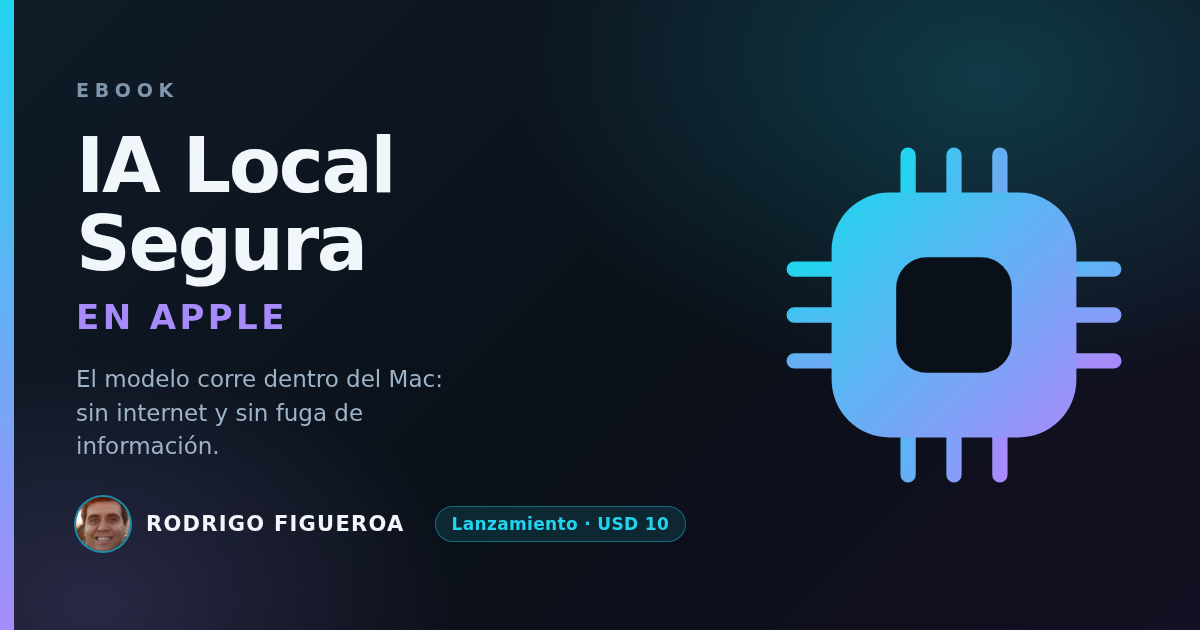
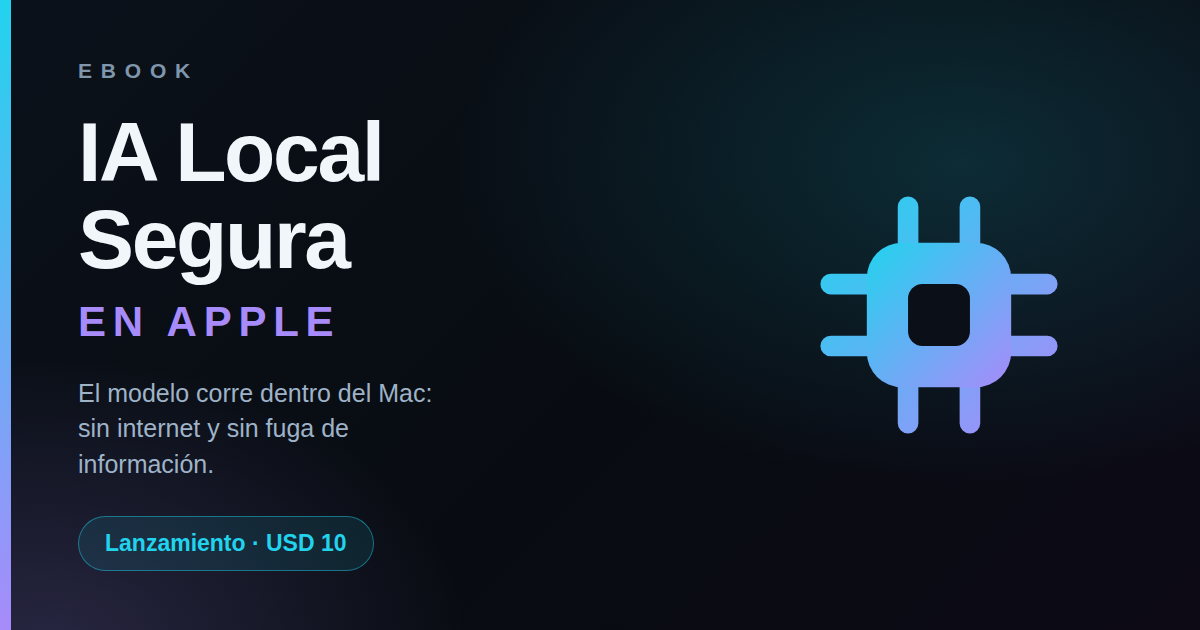
Anonimizar la landing: sin autor firmado y sin el cliente del caso
La página estaba firmada por una persona con nombre, apellido, dos retratos y
un número de WhatsApp personal, y el caso de éxito citaba a un cliente por su
razón social. Se quitan ambas identidades.

La marca pasa a ser el título del ebook. En la barra y el pie, la foto de perfil
se reemplaza por el chip que ya se usaba como favicon: misma figura y misma
paleta, sin request nuevo. La portada SVG cambia la firma del autor por
«Edición de lanzamiento», y la nota de abajo pasa a «PDF y EPUB · dos rutas de
lectura» para no repetir la misma frase dos veces.

El caso queda como el de «una multinacional de tecnología con operación en
Latinoamérica». El destacado pierde el lema corporativo del cliente, que lo
reidentificaba aunque se borrara el nombre, y conserva solo la idea.

La sección del autor pasa a «Sobre el libro»: sin retrato, en tercera persona y
centrada en para quién está escrito.

El WhatsApp apunta al número de contacto nuevo (+56 9 9412 0579) y ni los
textos ni el mensaje prellenado nombran a nadie. Lo mismo en el respaldo del
formulario, en el aviso sin JavaScript y en la vía para pedir el borrado de
datos. En n8n cambian el remitente de Gmail y la firma del correo.

Se borran los dos retratos y se regenera og.png, que llevaba la cara y el
nombre impresos, con la misma composición y paleta.

La barra superior necesitó ajuste: el título es más largo que el nombre que
reemplaza, así que el precio sale del botón desde 620px (seguía visible en el
[…]

diff --git a/docs/index.html b/docs/index.html
@@ -9,12 +9,12 @@
 
 <meta property="og:type" content="website" />
 <meta property="og:locale" content="es_LA" />
-<meta property="og:site_name" content="Rodrigo Figueroa" />
+<meta property="og:site_name" content="IA Local Segura en Apple" />
 <meta property="og:title" content="IA Local Segura en Apple — el ebook" />
 <meta property="og:description" content="El modelo corre dentro del Mac: sin internet, sin licencia por usuario y sin fuga de información. Primeras 20 reservas: USD 10 en vez de USD 25." />
 <meta property="og:url" content="https://keepsync-hub.github.io/apple-ia-local-segura/" />
 <meta property="og:image" content="https://keepsync-hub.github.io/apple-ia-local-segura/assets/og.png" />
-<meta property="og:image:alt" content="IA Local Segura en Apple, ebook de Rodrigo Figueroa" />
+<meta property="og:image:alt" content="IA Local Segura en Apple — portada del ebook" />
 <meta property="og:image:width" content="1200" />
 <meta property="og:image:height" content="630" />
 <meta name="twitter:card" content="summary_large_image" />
@@ -28,7 +28,15 @@
 
 <header class="topbar">
   <div class="wrap topbar-in">
-    <span class="brand"><img class="brand-foto" src="assets/rodrigo-avatar.jpg" width="64" height="64" alt="" /> Rodrigo Figueroa</span>
+    <span class="brand">
+      <svg class="brand-mark" viewBox="0 0 32 32" aria-hidden="true" focusable="false">
+        <rect x="9.5" y="9.5" width="13" height="13" rx="3.2" fill="none" stroke="currentColor" stroke-width="3.4" />
+        <g stroke="currentColor" stroke-width="2" stroke-linecap="round">
+          <path d="M13 6v3M19 6v3M13 23v3M19 23v3M6 13h3M6 19h3M23 13h3M23 19h3" />
+        </g>
+      </svg>
+      IA Local Segura en Apple
+    </span>
     <a class="topbar-cta" href="#reservar">Reservar<span class="cta-precio"> por <b>USD&nbsp;10</b></span></a>
   </div>
 </header>
@@ -40,7 +48,7 @@
   <div class="wrap hero-grid">
 
     <div class="hero-copy">
-      <p class="eyebrow">Nuevo ebook de Rodrigo Figueroa</p>
+      <p class="eyebrow">Nuevo ebook</p>
       <h1>Sus Mac ya tienen todo para usar IA.<br /><em>Falta encenderla, puertas adentro.</em></h1>
       <p class="lead">
         Cada Mac con chip de Apple que su empresa compró trae la memoria y el motor necesarios para
@@ -107,7 +115,7 @@
           <p class="microcopy">
             Su navegador tiene JavaScript desactivado y el formulario lo necesita para tomar su reserva.
             Actívelo y recargue la página, o
-            <a href="https://wa.me/56982504273?text=Hola%20Rodrigo%2C%20vengo%20de%20la%20p%C3%A1gina%20del%20ebook%20IA%20Local%20Segura%20en%20Apple%20y%20tengo%20una%20consulta." target="_blank" rel="noopener noreferrer">escríbale a Rodrigo
+            <a href="https://wa.me/56994120579?text=Hola%2C%20vengo%20de%20la%20p%C3%A1gina%20del%20ebook%20IA%20Local%20Segura%20en%20Apple%20y%20tengo%20una%20consulta." target="_blank" rel="noopener noreferrer">escríbanos
             por WhatsApp</a> y la tomamos a mano.
           </p>
         </noscript>
@@ -156,11 +164,11 @@
 
           <text x="44" y="468" fill="#9fb3c8" font-family="ui-sans-serif,system-ui,sans-serif" font-size="17">El modelo corre dentro del Mac:</text>
           <text x="44" y="494" fill="#9fb3c8" font-family="ui-sans-serif,system-ui,sans-serif" font-size="17">sin internet y sin fuga de información.</text>
-          <text x="44" y="536" fill="#a78bfa" font-family="ui-sans-serif,system-ui,sans-serif" font-size="18" font-weight="700" letter-spacing="1.2">RODRIGO FIGUEROA</text>
+          <text x="44" y="536" fill="#a78bfa" font-family="ui-sans-serif,system-ui,sans-serif" font-size="18" font-weight="700" letter-spacing="1.2">EDICIÓN DE LANZAMIENTO</text>
         </svg>
         <div class="book-edge" aria-hidden="true"></div>
       </div>
-      <p class="cover-note">Edición de lanzamiento · PDF y EPUB</p>
+      <p class="cover-note">PDF y EPUB · dos rutas de lectura</p>
     </div>
 
   </div>
@@ -297,15 +305,16 @@
   </div>
 </section>
 
-<!-- ─────────────────────────  5. CASO RICOH LATAM  ───────────────────────── -->
+<!-- ─────────────────────────  5. CASO ANÓNIMO  ───────────────────────── -->
 <section class="band band-case">
   <div class="wrap case">
     <p class="kicker">Caso real</p>
-    <h2 class="h2">Ricoh LATAM: de horas de trabajo manual a decisiones basadas en datos</h2>
+    <h2 class="h2">De horas de trabajo manual a decisiones basadas en datos</h2>
     <p>
-      En Ricoh LATAM el problema no era la falta de datos, sino el tiempo que costaba ordenarlos. Tareas
-      administrativas, manuales y repetitivas sobre información <b>simple en lo técnico pero clave en lo
-      estratégico</b>: los datos con los que efectivamente se toman decisiones de negocio.
+      En una multinacional de tecnología con operación en Latinoamérica el problema no era la falta de
+      datos, sino el tiempo que costaba ordenarlos. Tareas administrativas, manuales y repetitivas sobre
+      información <b>simple en lo técnico pero clave en lo estratégico</b>: los datos con los que
+      efectivamente se toman decisiones de negocio.
     </p>
     <p>
       Al delegar ese trabajo a una herramienta que corre dentro del propio computador, esas horas desaparecieron del calendario
@@ -314,10 +323,10 @@
     </p>
     <blockquote>
       <p>
-        La propuesta de valor de Ricoh se llama <b><em>fulfillment through work</em></b>: la realización a
-        través del trabajo. Aumentar las capacidades de cada persona, delegar lo repetitivo a la tecnología
-        y liberar su imaginación para co-crear cosas nuevas. Esto no reemplaza a nadie: le devuelve
-        a la gente las horas que la organización estaba gastando en tareas que nadie quería hacer.
+        El criterio detrás del cambio: <b>aumentar las capacidades de cada persona</b>, delegar lo
+        repetitivo a la tecnología y dejarle a la gente el trabajo que sí requiere criterio. Esto no
+        reemplaza a nadie: le devuelve a las personas las horas que la organización estaba gastando en
+        tareas que nadie quería hacer.
       </p>
     </blockquote>
   </div>
@@ -396,25 +405,23 @@
 
 <section class="band band-autor">
   <div class="wrap autor">
-    <img class="autor-foto" src="assets/rodrigo.jpg" width="400" height="400"
-         alt="Retrato de Rodrigo Figueroa" loading="lazy" decoding="async" />
     <div class="autor-texto">
-      <p class="kicker">Quién lo escribe</p>
-      <h2 class="h2">Rodrigo Figueroa</h2>
+      <p class="kicker">Sobre el libro</p>
+      <h2 class="h2">Escrito para las dos personas que tienen que decir que sí</h2>
       <p>
-        Escribí este libro para que lo pueda leer tanto quien aprueba el presupuesto como quien lo va a
+        El libro está hecho para que lo pueda leer tanto quien aprueba el presupuesto como quien lo va a
         implementar: cada capítulo viene marcado con su ruta, y ninguna de las dos necesita a la otra
         para avanzar.
       </p>
       <p>
         Si tiene una duda antes de reservar —sobre los Mac que ya tiene, sobre cómo desplegarlo por MDM,
-        sobre lo que sea— escríbame directo. Contesto yo.
+        sobre lo que sea— escríbanos directo y le respondemos.
       </p>
-      <a class="autor-wa" href="https://wa.me/56982504273?text=Hola%20Rodrigo%2C%20vengo%20de%20la%20p%C3%A1gina%20del%20ebook%20IA%20Local%20Segura%20en%20Apple%20y%20tengo%20una%20consulta." target="_blank" rel="noopener noreferrer">
+      <a class="autor-wa" href="https://wa.me/56994120579?text=Hola%2C%20vengo%20de%20la%20p%C3%A1gina%20del%20ebook%20IA%20Local%20Segura%20en%20Apple%20y%20tengo%20una%20consulta." target="_blank" rel="noopener noreferrer">
         <svg viewBox="0 0 24 24" aria-hidden="true" focusable="false">
           <path d="M17.472 14.382c-.297-.149-1.758-.867-2.03-.967-.273-.099-.471-.148-.67.15-.197.297-.767.966-.94 1.164-.173.199-.347.223-.644.075-.297-.15-1.255-.463-2.39-1.475-.883-.788-1.48-1.761-1.653-2.059-.173-.297-.018-.458.13-.606.134-.133.298-.347.446-.52.149-.174.198-.298.298-.497.099-.198.05-.371-.025-.52-.075-.149-.669-1.612-.916-2.207-.242-.579-.487-.5-.669-.51-.173-.008-.371-.01-.57-.01-.198 0-.52.074-.792.372-.272.297-1.04 1.016-1.04 2.479 0 1.462 1.065 2.875 1.213 3.074.149.198 2.096 3.2 5.077 4.487.709.306 1.262.489 1.694.625.712.227 1.36.195 1.871.118.571-.085 1.758-.719 2.006-1.413.248-.694.248-1.289.173-1.413-.074-.124-.272-.198-.57-.347m-5.421 7.403h-.004a9.87 9.87 0 0 1-5.031-1.378l-.361-.214-3.741.982.998-3.648-.235-.374a9.86 9.86 0 0 1-1.51-5.26c.001-5.45 4.436-9.884 9.888-9.884 2.64 0 5.122 1.03 6.988 2.898a9.825 9.825 0 0 1 2.893 6.994c-.003 5.45-4.437 9.884-9.885 9.884m8.413-18.297A11.815 11.815 0 0 0 12.05 0C5.495 0 .16 5.335.157 11.892c0 2.096.547 4.142 1.588 5.945L.057 24l6.305-1.654a11.882 11.882 0 0 0 5.683 1.448h.005c6.554 0 11.89-5.335 11.893-11.893a11.821 11.821 0 0 0-3.48-8.413z"/>
         </svg>
-        Escríbame por WhatsApp
+        Escríbanos por WhatsApp
       </a>
     </div>
   </div>
@@ -459,11 +466,21 @@
 
 <footer class="footer">
   <div class="wrap footer-in">
-    <p><span class="brand"><img class="brand-foto" src="assets/rodrigo-avatar.jpg" width="64" height="64" alt="" /> Rodrigo Figueroa</span></p>
+    <p>
+      <span class="brand">
+        <svg class="brand-mark" viewBox="0 0 32 32" aria-hidden="true" focusable="false">
+          <rect x="9.5" y="9.5" width="13" height="13" rx="3.2" fill="none" stroke="currentColor" stroke-width="3.4" />
+          <g stroke="currentColor" stroke-width="2" stroke-linecap="round">
+            <path d="M13 6v3M19 6v3M13 23v3M19 23v3M6 13h3M6 19h3M23 13h3M23 19h3" />
+          </g>
+        </svg>
+        IA Local Segura en Apple
+      </span>
+    </p>
     <p class="footer-note">
       Guardamos su nombre y su correo con un único fin: coordinar el pago y la entrega del
       ebook. No compartimos esos datos con terceros. Si quiere que los borremos,
-      <a href="https://wa.me/56982504273?text=Hola%20Rodrigo%2C%20vengo%20de%20la%20p%C3%A1gina%20del%20ebook%20IA%20Local%20Segura%20en%20Apple%20y%20tengo%20una%20consulta." target="_blank" rel="noopener noreferrer">escríbale a Rodrigo por
+      <a href="https://wa.me/56994120579?text=Hola%2C%20vengo%20de%20la%20p%C3%A1gina%20del%20ebook%20IA%20Local%20Segura%20en%20Apple%20y%20tengo%20una%20consulta." target="_blank" rel="noopener noreferrer">escríbanos por
       WhatsApp</a> y se borran.
     </p>
     <p class="footer-note">
@@ -473,12 +490,12 @@
   </div>
 </footer>
 
-<a class="wa" href="https://wa.me/56982504273?text=Hola%20Rodrigo%2C%20vengo%20de%20la%20p%C3%A1gina%20del%20ebook%20IA%20Local%20Segura%20en%20Apple%20y%20tengo%20una%20consulta." target="_blank" rel="noopener noreferrer"
-   aria-label="Escribirle por WhatsApp a Rodrigo Figueroa">
+<a class="wa" href="https://wa.me/56994120579?text=Hola%2C%20vengo%20de%20la%20p%C3%A1gina%20del%20ebook%20IA%20Local%20Segura%20en%20Apple%20y%20tengo%20una%20consulta." target="_blank" rel="noopener noreferrer"
+   aria-label="Escribirnos por WhatsApp">
   <svg class="wa-icon" viewBox="0 0 24 24" aria-hidden="true" focusable="false">
     <path d="M17.472 14.382c-.297-.149-1.758-.867-2.03-.967-.273-.099-.471-.148-.67.15-.197.297-.767.966-.94 1.164-.173.199-.347.223-.644.075-.297-.15-1.255-.463-2.39-1.475-.883-.788-1.48-1.761-1.653-2.059-.173-.297-.018-.458.13-.606.134-.133.298-.347.446-.52.149-.174.198-.298.298-.497.099-.198.05-.371-.025-.52-.075-.149-.669-1.612-.916-2.207-.242-.579-.487-.5-.669-.51-.173-.008-.371-.01-.57-.01-.198 0-.52.074-.792.372-.272.297-1.04 1.016-1.04 2.479 0 1.462 1.065 2.875 1.213 3.074.149.198 2.096 3.2 5.077 4.487.709.306 1.262.489 1.694.625.712.227 1.36.195 1.871.118.571-.085 1.758-.719 2.006-1.413.248-.694.248-1.289.173-1.413-.074-.124-.272-.198-.57-.347m-5.421 7.403h-.004a9.87 9.87 0 0 1-5.031-1.378l-.361-.214-3.741.982.998-3.648-.235-.374a9.86 9.86 0 0 1-1.51-5.26c.001-5.45 4.436-9.884 9.888-9.884 2.64 0 5.122 1.03 6.988 2.898a9.825 9.825 0 0 1 2.893 6.994c-.003 5.45-4.437 9.884-9.885 9.884m8.413-18.297A11.815 11.815 0 0 0 12.05 0C5.495 0 .16 5.335.157 11.892c0 2.096.547 4.142 1.588 5.945L.057 24l6.305-1.654a11.882 11.882 0 0 0 5.683 1.448h.005c6.554 0 11.89-5.335 11.893-11.893a11.821 11.821 0 0 0-3.48-8.413z"/>
   </svg>
-  <span class="wa-texto">Escríbale a Rodrigo</span>
+  <span class="wa-texto">Escríbanos</span>
 </a>
 
 <script src="assets/reserva.js" defer></script>

diff --git a/docs/assets/styles.css b/docs/assets/styles.css
@@ -74,10 +74,9 @@ b, strong { color: #fff; font-weight: 650; }
 .topbar-in { display: flex; align-items: center; justify-content: space-between; gap: 16px; height: 66px; }
 
 .brand { display: inline-flex; align-items: center; gap: 9px; font-weight: 700; letter-spacing: -0.01em; white-space: nowrap; }
-.brand-foto {
-  width: 26px; height: 26px; border-radius: 50%;
-  object-fit: cover; flex: none;
-  box-shadow: 0 0 0 1.5px rgba(34, 211, 238, .55);
+.brand-mark {
+  width: 24px; height: 24px; flex: none;
+  color: var(--accent);
 }
 
 .topbar-cta {
@@ -366,14 +365,17 @@ b, strong { color: #fff; font-weight: 650; }
 }
 
 @media (max-width: 620px) {
-  /* El nombre del autor es más largo que un logotipo: hay que darle aire a la barra. */
+  /* El título completo es más largo que un logotipo: hay que darle aire a la barra.
+     Desde acá el precio sale del botón —sigue a la vista en el hero, justo abajo—
+     porque marca y precio juntos ya no caben en una sola línea. */
   .brand { font-size: 14.5px; }
   .topbar-cta { font-size: 13px; padding: 8px 12px; }
+  .cta-precio { display: none; }
 }
 
 @media (max-width: 420px) {
-  /* Ya no cabe el precio en la barra; sigue a la vista en el hero, justo abajo. */
-  .cta-precio { display: none; }
+  .brand { font-size: 13px; }
+  .brand-mark { width: 20px; height: 20px; }
   .hero { padding-block: 40px 54px; }
   .band { padding-block: 56px; }
   .field-row { grid-template-columns: 1fr; }
@@ -391,26 +393,13 @@ b, strong { color: #fff; font-weight: 650; }
   * { animation-duration: .001ms !important; transition-duration: .001ms !important; }
 }
 
-/* ───────────────────────  el autor  ───────────────────────
+/* ───────────────────────  sobre el libro  ───────────────────────
    Va después de las preguntas y antes del cierre: cuando ya se resolvieron las
-   dudas del producto, lo que queda por confiar es en la persona. */
+   dudas del producto, lo que queda es decir para quién está escrito. */
 
 .band-autor { background: var(--bg-alt); }
 
-.autor {
-  display: grid;
-  grid-template-columns: auto minmax(0, 1fr);
-  gap: 40px;
-  align-items: center;
-}
-
-.autor-foto {
-  width: 180px;
-  height: 180px;
-  border-radius: 50%;
-  object-fit: cover;
-  box-shadow: 0 0 0 3px var(--bg-alt), 0 0 0 5px rgba(34, 211, 238, .45), 0 18px 40px rgba(0, 0, 0, .5);
-}
+.autor { display: grid; }
 
 .autor-texto { max-width: 62ch; }
 .autor-texto .h2 { margin-bottom: 16px; }
@@ -433,13 +422,9 @@ b, strong { color: #fff; font-weight: 650; }
 .autor-wa:hover { background: rgba(37, 211, 102, .18); }
 .autor-wa svg { width: 18px; height: 18px; fill: currentColor; flex: none; }
 
-@media (max-width: 700px) {
-  .autor { grid-template-columns: 1fr; gap: 24px; justify-items: start; }
-  .autor-foto { width: 132px; height: 132px; }
-}
 
 /* ───────────────────────  burbuja de WhatsApp  ───────────────────────
-   Canal directo con el autor. Va fija sobre la página porque la duda que
+   Canal directo de contacto. Va fija sobre la página porque la duda que
    frena una compra de este tipo aparece leyendo, no al final. */
 
 .wa {
@@ -472,4 +457,10 @@ b, strong { color: #fff; font-weight: 650; }
   /* En pantalla angosta la etiqueta estorba al botón del formulario: solo el círculo. */
   .wa { right: 14px; bottom: 14px; gap: 0; }
   .wa-texto { display: none; }
+}
+
+@media (max-width: 360px) {
+  /* Pantallas muy angostas: el título ya no cabe junto al botón, así que la
+     marca se queda solo con el texto y el chip cede el espacio. */
+  .brand-mark { display: none; }
 }

diff --git a/n8n/reserva-ebook.workflow.js b/n8n/reserva-ebook.workflow.js
@@ -114,7 +114,7 @@ const CODIGO_DECIDIR = 'const TOTAL = 20;\n'
   + "const html = '<div style=\"' + pila + ';color:#2f2a22;line-height:1.65;max-width:560px\">'\n"
   + '  + cuerpo\n'
   + '  + \'<p style="margin-top:30px;padding-top:18px;border-top:1px solid #e5ded0;color:#6a6255;font-size:14px">\'\n'
-  + "  + 'Rodrigo Figueroa · IA Local Segura en Apple'\n"
+  + "  + 'IA Local Segura en Apple'\n"
   + "  + '</p></div>';\n"
   + '\n'
   + 'return [{\n'
@@ -280,7 +280,7 @@ const correoConfirmacion = node({
       subject: expr('{{ $(\'Decidir cupo y correo\').first().json.asunto }}'),
       emailType: 'html',
       message: expr('{{ $(\'Decidir cupo y correo\').first().json.html }}'),
-      options: { appendAttribution: false, senderName: 'Rodrigo Figueroa' }
+      options: { appendAttribution: false, senderName: 'IA Local Segura en Apple' }
     },
     credentials: { gmailOAuth2: { id: 'cYhcyiH1LcyrXUWz', name: 'Gmail OAuth2 API' } },
     notes: 'Si Gmail falla la reserva ya está guardada y el navegador ya recibió su confirmación.'

diff --git a/docs/assets/reserva.js b/docs/assets/reserva.js
@@ -169,7 +169,7 @@
       .catch(function () {
         if (btn) { btn.disabled = false; btn.textContent = textoBtn; }
         estado(form, 'err',
-          'No pudimos registrar la reserva. Vuelva a intentarlo en un momento, o escríbale a Rodrigo por ' +
+          'No pudimos registrar la reserva. Vuelva a intentarlo en un momento, o escríbanos por ' +
           'WhatsApp con el botón verde y la tomamos a mano.');
       });
   }

diff --git a/README.md b/README.md
@@ -1,7 +1,6 @@
 # IA Local Segura en Apple — landing de lanzamiento
 
-Landing de lanzamiento del ebook **IA Local Segura en Apple**, de Rodrigo Figueroa, publicada
-en GitHub Pages.
+Landing de lanzamiento del ebook **IA Local Segura en Apple**, publicada en GitHub Pages.
 
 - **URL:** https://keepsync-hub.github.io/apple-ia-local-segura/
 - **Oferta:** las primeras **20 reservas** pagan **USD 10**; después el ebook queda en **USD 25**.
@@ -77,8 +76,8 @@ desde `https://keepsync-hub.github.io`.
 
 ### Contacto directo
 
-La página lleva una burbuja fija de WhatsApp al número del autor
-(`+56 9 8250 4273`, enlace `wa.me` con mensaje prellenado). Es también el
+La página lleva una burbuja fija de WhatsApp al número de contacto
+(`+56 9 9412 0579`, enlace `wa.me` con mensaje prellenado). Es también el
 respaldo cuando el formulario falla, cuando el visitante tiene JavaScript
 desactivado, y la vía para pedir que se borren los datos.
 
